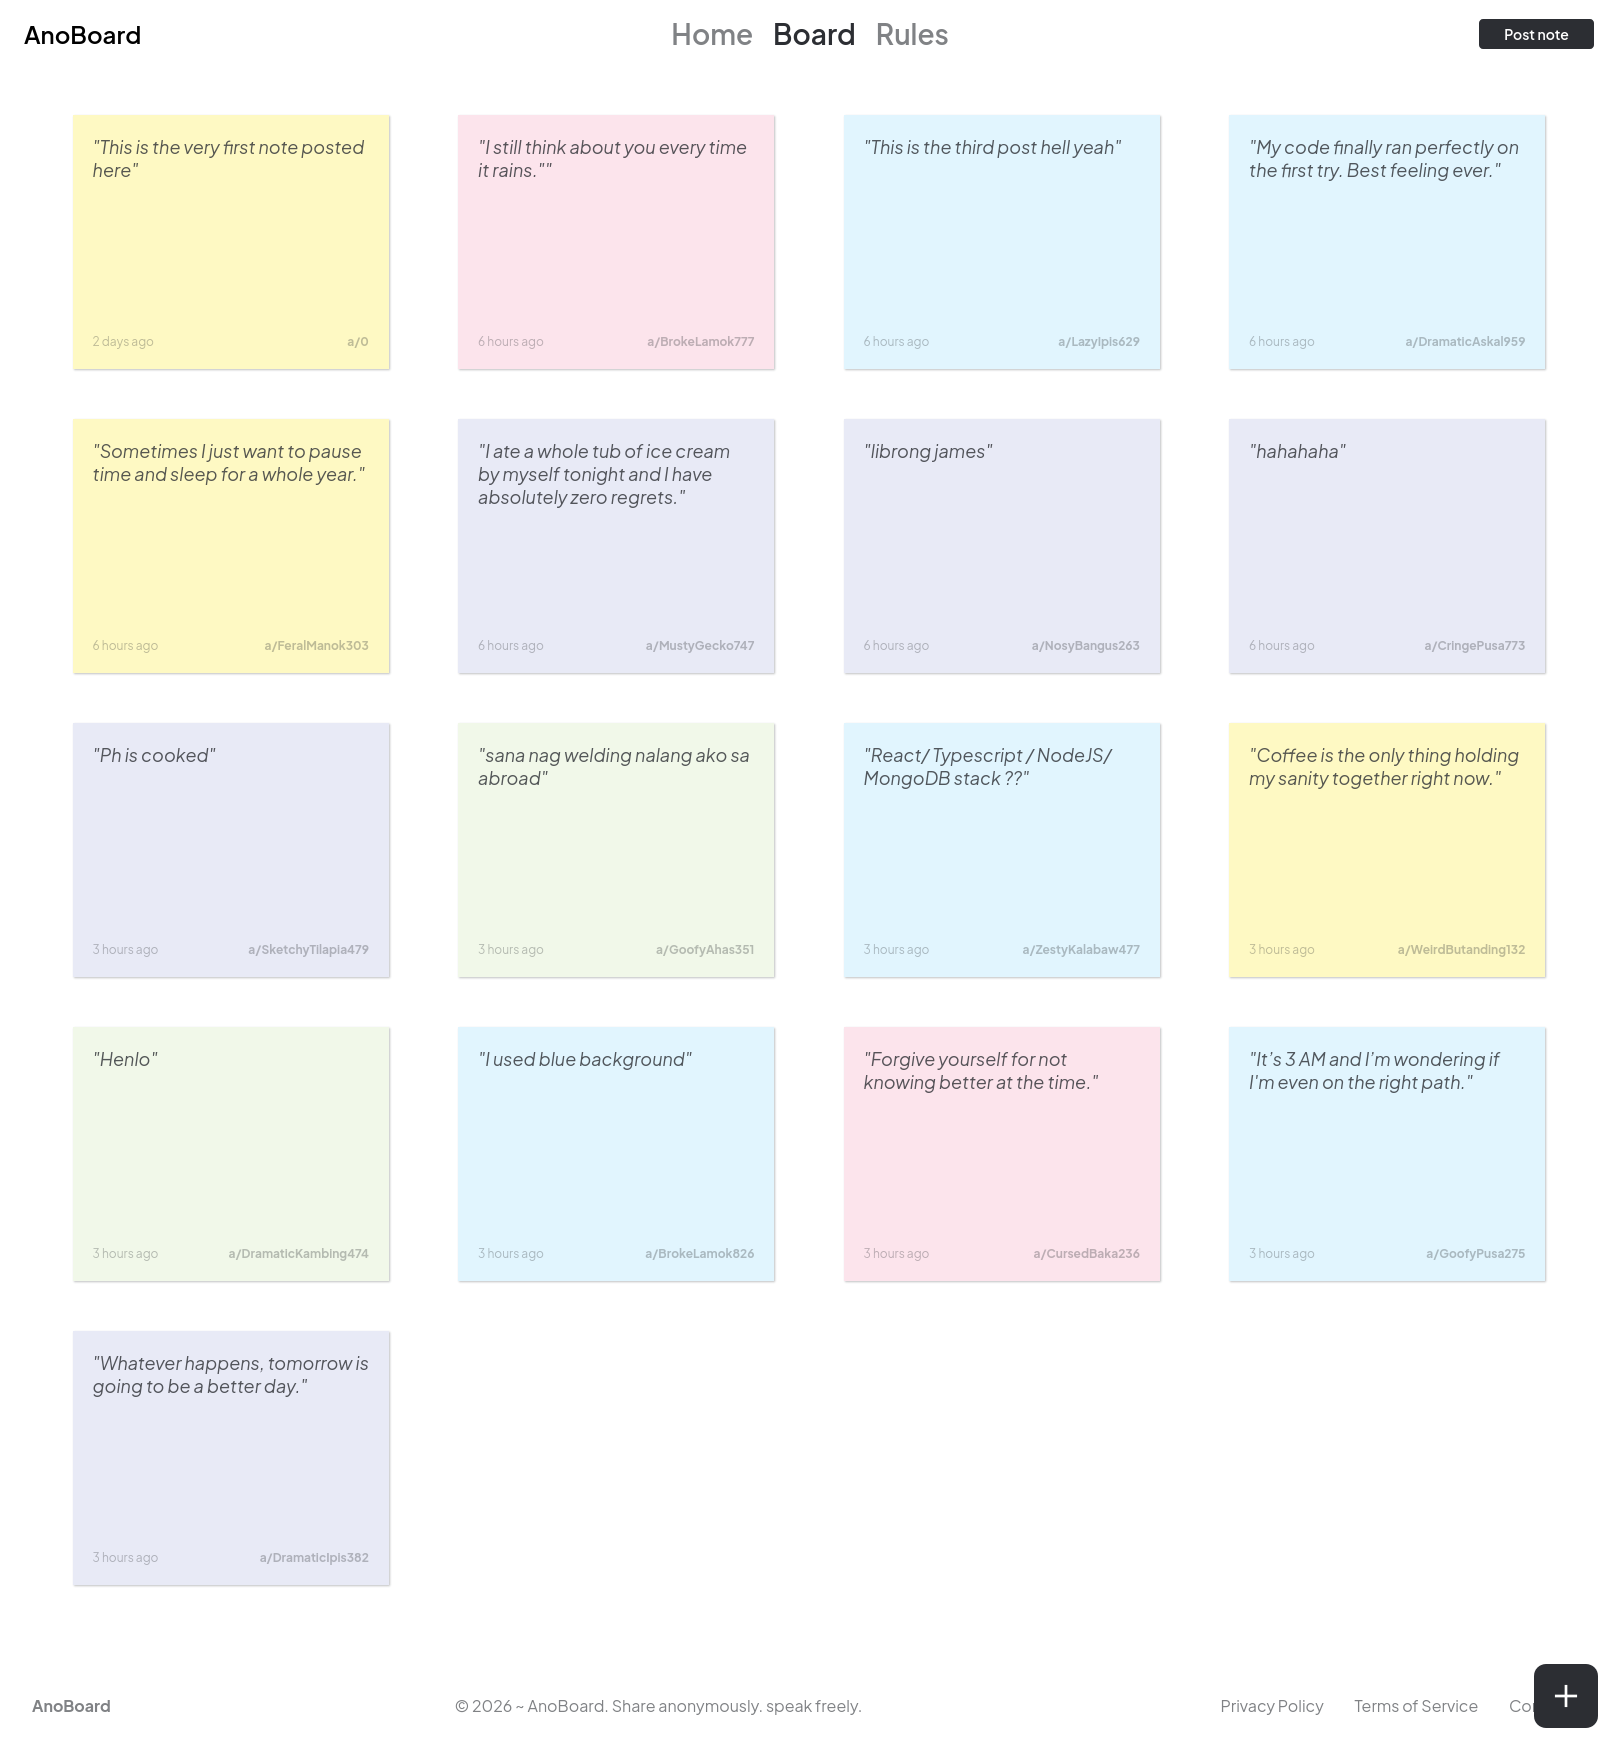
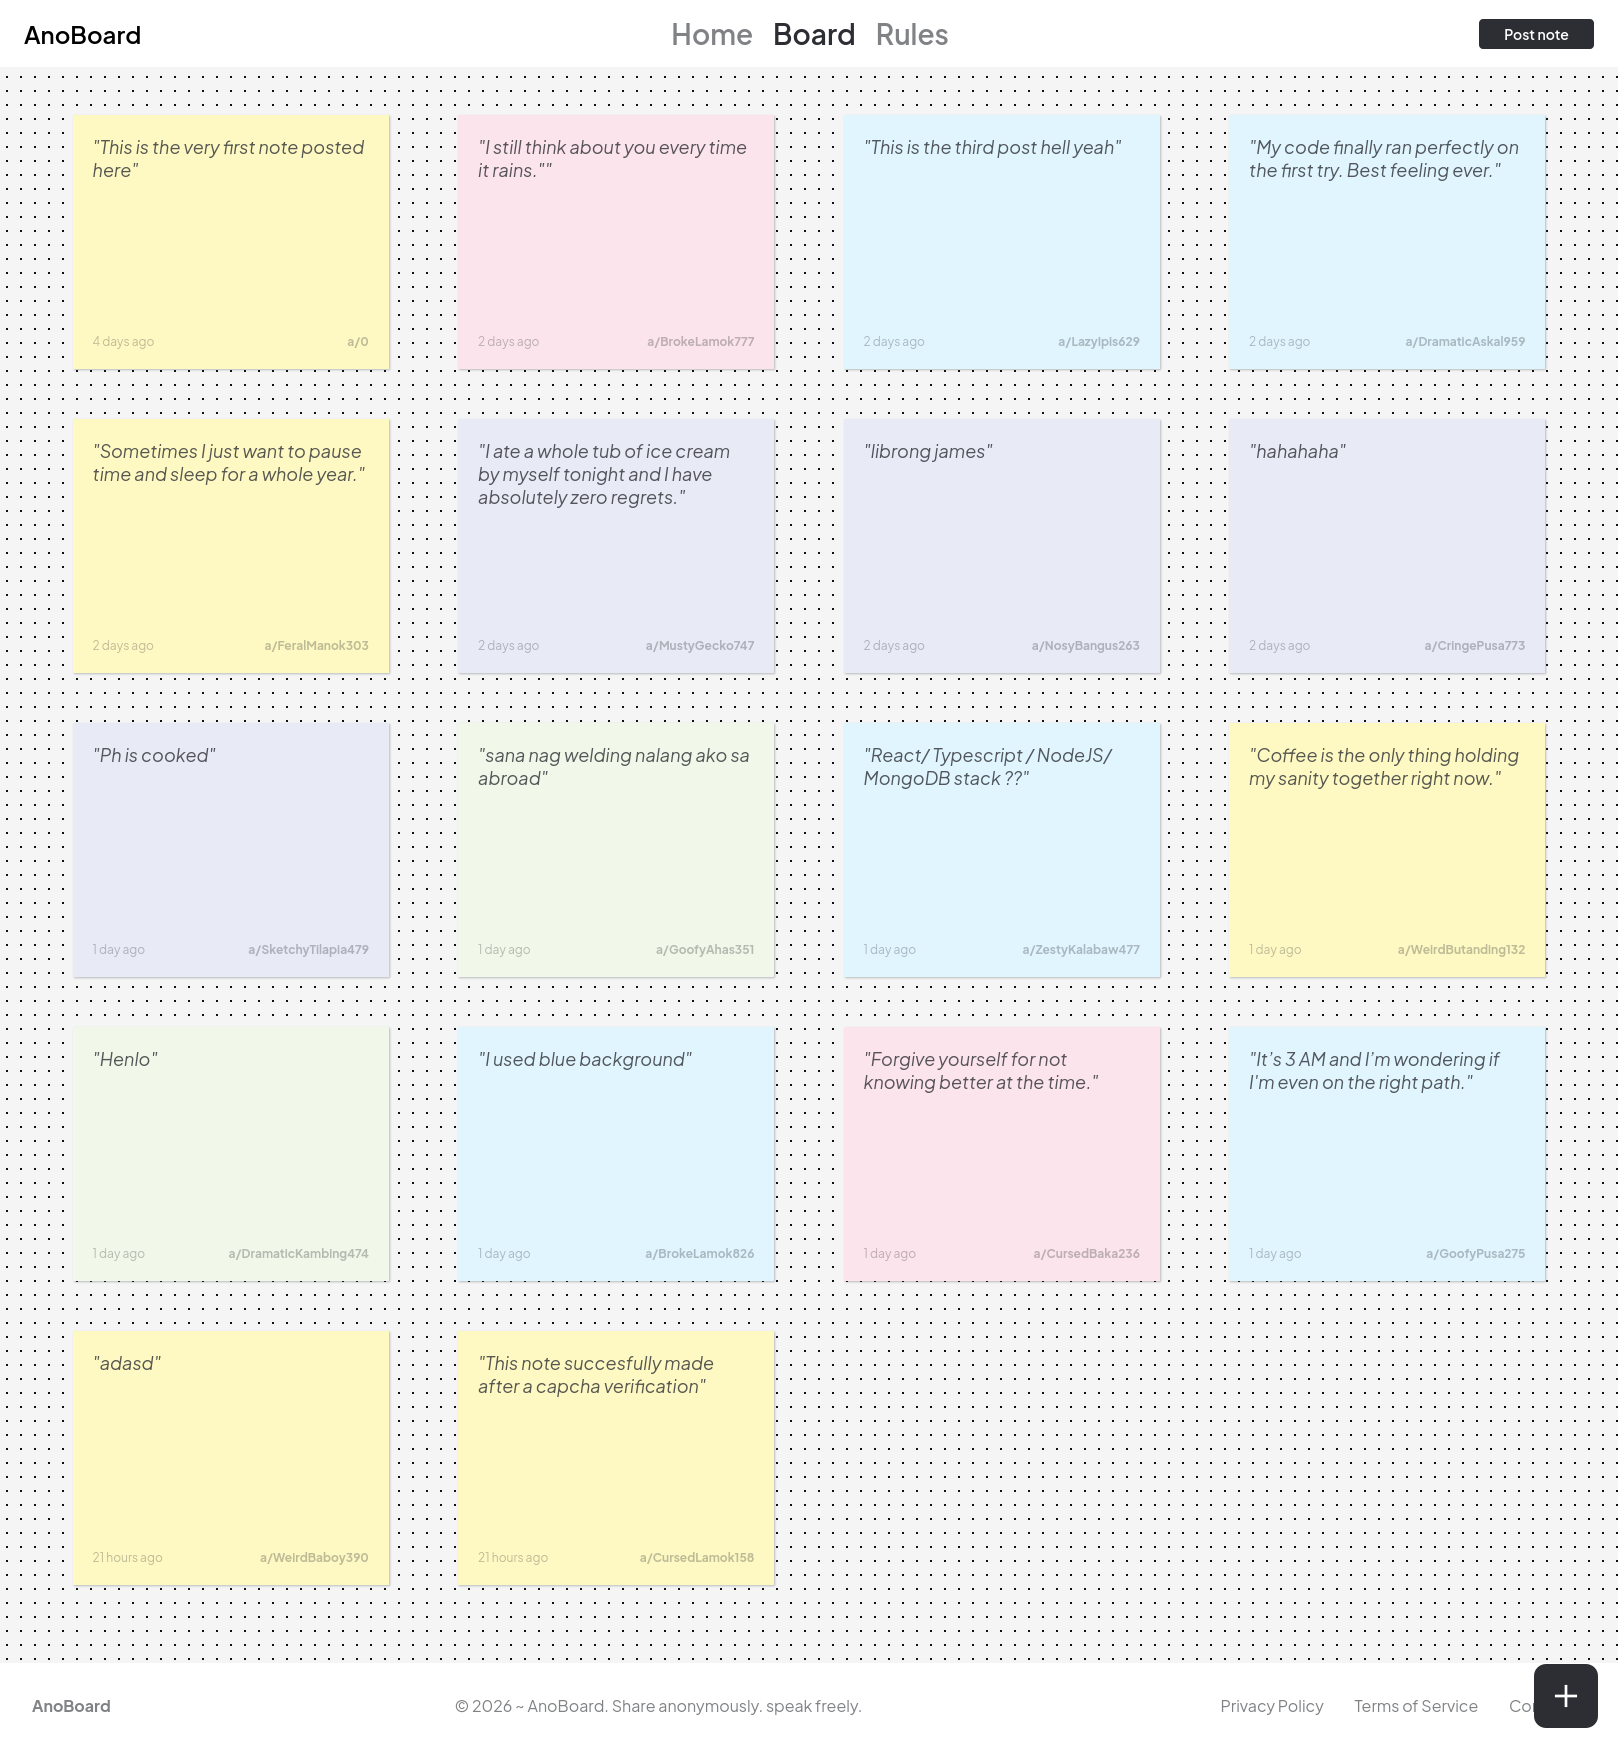
readme, updated board screenshot, comments.

Changed region(s): [[0.2781, 0.7414, 0.4944, 0.9268], [0.0309, 0.7414, 0.2472, 0.9268]]

diff --git a/public/js/pages/board.js b/public/js/pages/board.js
@@ -66,9 +66,9 @@ function render(){
 
 render();
 
-// Auto-refresh functionality
+// auto-refresh functionality
 async function refreshBoard() {
-    // Prevent disruption: Skip refresh if the user is reading (scrolled down) or typing a note
+    // prevent disruption: Skip refresh if the user is reading (scrolled down) or typing a note
     const isModalOpen = document.querySelector('.overlay').style.display === 'flex';
     const isScrolled = window.scrollY > 50;
     
@@ -90,7 +90,7 @@ async function refreshBoard() {
         }
     }
 
-    // Hide spinner after a tiny delay so it doesn't just flash instantly
+    // hide spinner after a tiny delay so it doesn't just flash instantly
     setTimeout(() => { spinner.style.display = 'none'; }, 300);
 }
 setInterval(refreshBoard, 15000); // Refreshes every 15 seconds
@@ -145,7 +145,7 @@ async function postNote(event){
     
     const result = await postNoteService(data);
 
-    // Reset Turnstile and disable the button so the user can post again without reloading
+    // reset Turnstile and disable the button so the user can post again without reloading
     if (window.turnstile) window.turnstile.reset();
     document.getElementById("submit-btn").disabled = true;
 
@@ -222,7 +222,7 @@ function showToast(message, isError = false) {
     }, 3000);
 }
 
-// Attach Turnstile callbacks to the global window object so the HTML widget can find them
+// attach Turnstile callbacks to the global window object so the HTML widget can find them
 window.onTurnstileSuccess = function(token) {
     document.getElementById("submit-btn").disabled = false;
 }

diff --git a/public/api/postNote.php b/public/api/postNote.php
@@ -12,7 +12,7 @@ if($_SERVER['REQUEST_METHOD'] === 'POST'){
         exit;
     }
 
-    // 1. Verify Cloudflare Turnstile CAPTCHA
+    // verify Cloudflare Turnstile CAPTCHA
     if (empty($data['cf_turnstile_response'])) {
         http_response_code(403);
         header('Content-Type: application/json');
@@ -28,7 +28,7 @@ if($_SERVER['REQUEST_METHOD'] === 'POST'){
         exit;
     }
 
-    // Use cURL for external requests, as allow_url_fopen might be disabled in production
+    // use cURL for external requests, as allow_url_fopen might be disabled in production
     $ch = curl_init('https://challenges.cloudflare.com/turnstile/v0/siteverify');
     curl_setopt($ch, CURLOPT_RETURNTRANSFER, true);
     curl_setopt($ch, CURLOPT_POST, true);
@@ -41,7 +41,7 @@ if($_SERVER['REQUEST_METHOD'] === 'POST'){
     curl_close($ch);
 
     $captchaResult = json_decode($verifyResponse);
-    // Check for cURL errors or failed validation
+    // check for cURL errors or failed validation
     if ($verifyResponse === false || !$captchaResult || empty($captchaResult->success)) {
         http_response_code(403);
         header('Content-Type: application/json');
@@ -50,15 +50,15 @@ if($_SERVER['REQUEST_METHOD'] === 'POST'){
     }
 
     if (isset($data['text']) && isset($data['note_color'])) {
-        // Sanitize inputs to prevent Cross-Site Scripting (XSS)
+        // sanitize inputs to prevent Cross-Site Scripting (XSS)
         $cleanText = htmlspecialchars(trim($data['text']), ENT_QUOTES, 'UTF-8');
         $cleanColor = htmlspecialchars(trim($data['note_color']), ENT_QUOTES, 'UTF-8');
         
-        // Enforce a maximum length and prevent empty notes
+        // enforce a maximum length and prevent empty notes
         if (!empty($cleanText) && strlen($cleanText) <= 1000) {
             $data['text'] = $cleanText;
             $data['note_color'] = $cleanColor;
-            // Override frontend timestamp with the server's exact current time
+            // override frontend timestamp with the server's exact current time
             $data['created_at'] = date('Y-m-d H:i:s');
             $noteModel->createNote($data);
         }

diff --git a/app/core/errorHandler.php b/app/core/errorHandler.php
@@ -2,10 +2,10 @@
 
 class ErrorHandler {
     public static function handleException(Throwable $exception): void {
-        // Log the full error securely on the server
+        // log the full error securely on the server
         error_log("Uncaught Exception: " . $exception->getMessage() . " in " . $exception->getFile() . " on line " . $exception->getLine());
         
-        // Return a generic 500 Internal Server Error response to the client
+        // return a generic 500 Internal Server Error response to the client
         http_response_code(500);
         header('Content-Type: application/json');
         echo json_encode([
@@ -15,7 +15,7 @@ class ErrorHandler {
     }
 
     public static function handleError(int $errno, string $errstr, string $errfile, int $errline): bool {
-        // Convert standard PHP errors/warnings into Exceptions so our exception handler catches them
+        // convert standard PHP errors/warnings into Exceptions so our exception handler catches them
         throw new ErrorException($errstr, 0, $errno, $errfile, $errline);
     }
 }

diff --git a/app/core/EnvLoader.php b/app/core/EnvLoader.php
@@ -7,11 +7,11 @@ class EnvLoader {
         }
         $lines = file($path, FILE_IGNORE_NEW_LINES | FILE_SKIP_EMPTY_LINES);
         foreach ($lines as $line) {
-            if (strpos(trim($line), '#') === 0) continue; // Skip comment lines
+            if (strpos(trim($line), '#') === 0) continue; // skip comment lines
             if (strpos($line, '=') !== false) {
                 list($name, $value) = explode('=', $line, 2);
                 $name = trim($name);
-                $value = trim($value, " \t\n\r\0\x0B\"'"); // Strip whitespace and quotes
+                $value = trim($value, " \t\n\r\0\x0B\"'"); // strip whitespace and quotes
                 $_ENV[$name] = $value;
             }
         }

diff --git a/app/core/database.php b/app/core/database.php
@@ -10,9 +10,9 @@ class Database {
         try {
             $this->connection = new PDO($dsn, $config['username'], $config['password'], [
                 PDO::ATTR_ERRMODE => PDO::ERRMODE_EXCEPTION,
-                // Always return database rows as associative arrays
+                // always return database rows as associative arrays
                 PDO::ATTR_DEFAULT_FETCH_MODE => PDO::FETCH_ASSOC,
-                // Disable emulation to ensure true prepared statements (Security!)
+                // disable emulation to ensure true prepared statements (Security!)
                 PDO::ATTR_EMULATE_PREPARES => false           
             ]);
         } catch (PDOException $ex) {

diff --git a/app/core/bootstrap.php b/app/core/bootstrap.php
@@ -7,7 +7,7 @@ require_once __DIR__ . '/../model/note.php';
 set_error_handler(['errorHandler', 'handleError']);
 set_exception_handler(['errorHandler', 'handleException']);
 
-// Load environment variables before initializing the rest of the app
+// load environment variables before initializing the rest of the app
 EnvLoader::load(__DIR__ . '/../../.env');
 
 $database = new Database();

diff --git a/README.md b/README.md
@@ -12,11 +12,13 @@ AnoBoard is a simple digital corkboard for the unspoken. Where you can share you
 *   **Digital Corkboard Interface:** A simple, intuitive, and visually appealing layout for reading messages.
 *   **Instant Expression:** Seamlessly write and post daily thoughts, secrets, or dreams in real-time.
 *   **Safe Space:** Designed to foster a judgment-free environment for unspoken words.
+*   **Spam Protection:** Integrated Cloudflare Turnstile ensures a bot-free wall without compromising user privacy.
 
 ## Tech Stack
 - **Frontend**: HTML5, CSS3, Javascript
 - **Backend**: PHP 8.3.6
 - **Database**: MySQL, Apache
+- **Security**: Cloudflare Turnstile
 - **UI/UX Design**: Figma
 
 
@@ -60,4 +62,3 @@ Contributions, issues, and feature requests are welcome!
 
 ## License
 Distributed under the [MIT](https://choosealicense.com/licenses/mit/) License. See LICENSE for more information.
-